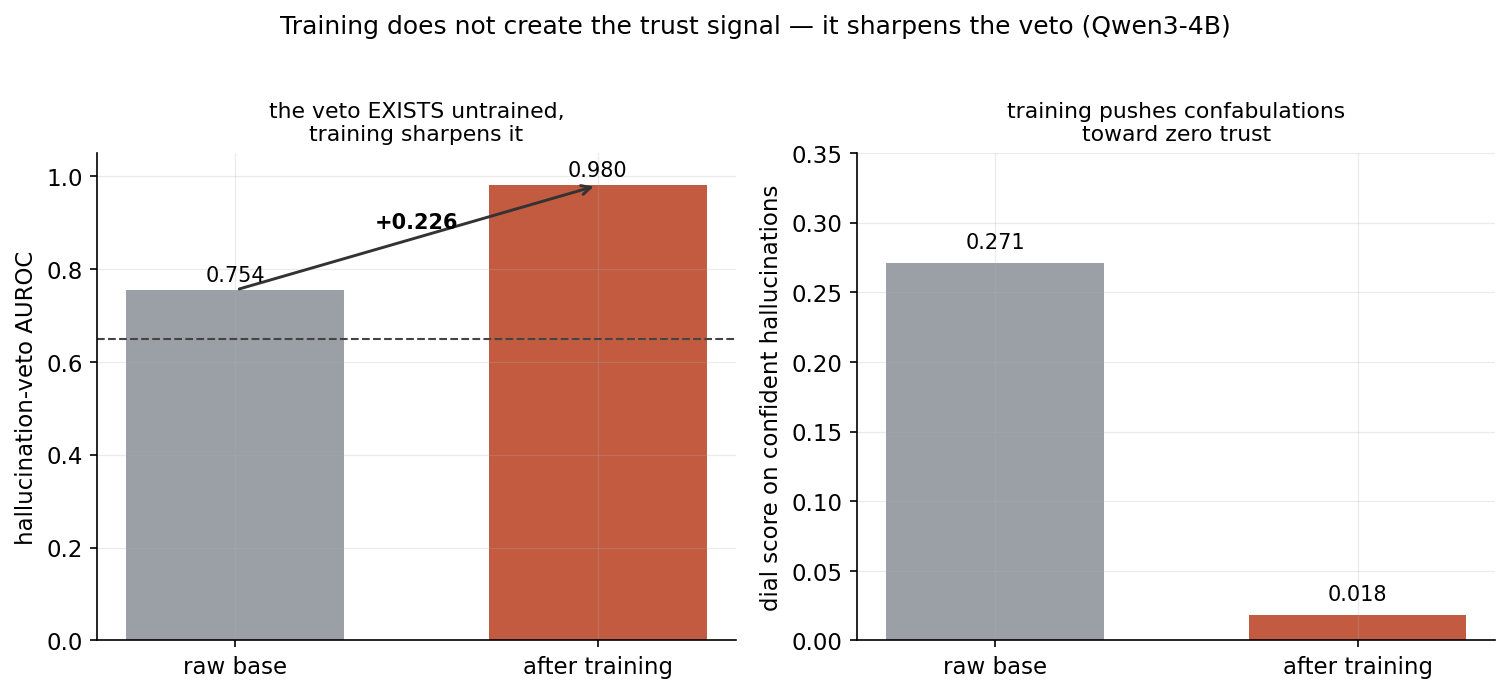
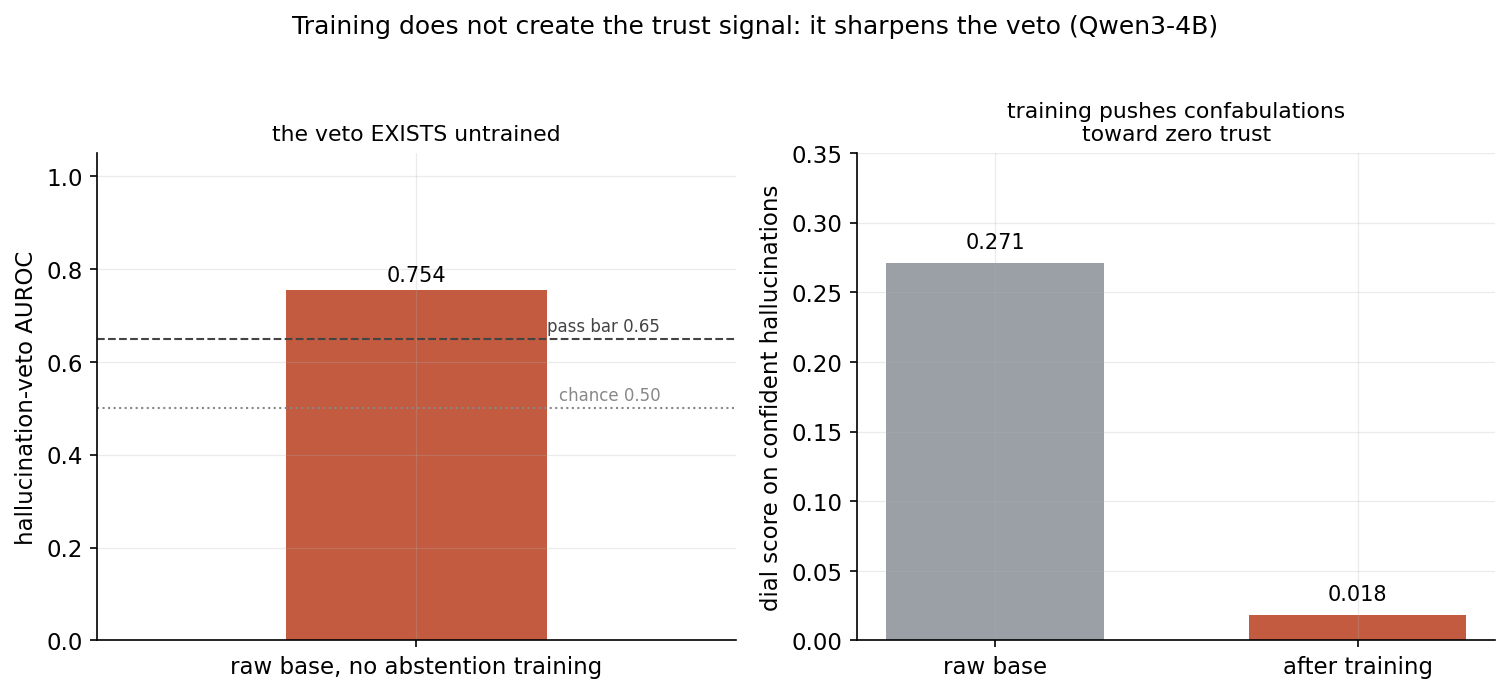
paper4 synthesis pass: remove the superseded 0.980 veto number
Per the PI directive and the new VOICE.md synthesis-not-journey rule, the
confounded 0.980 veto figure (and the 0.754-to-0.980 sharpening framing
built on it) no longer appears anywhere in the paper. The veto's on-page
characterization is the honest one, stated as the finding: a content-trust
core of 0.737 (CI [0.650, 0.815], margin +0.244 over answer length and
question answerability, CI excludes 0) plus carried answerability that is
operationally useful for flagging confabulations on unanswerable
questions. The raw-base 0.754 stays where the training-free claim needs
it; the sharpening claim now rides on the confabulation dial-mean shift
0.271 to 0.018. The U-cell registered prediction reduces to a compact
fact: the risk did not materialize, and the controlled content core sits
inside the registered 0.65-0.85 band. Figure 5 rebuilt (deterministic
generator, committed source artifacts): panel A now shows the raw-base
veto against the pass bar, panel B the dial-mean shift; suptitle em dash
replaced with a colon. Swept: abstract (three spots), sections 3, 4.3,
4.4, 4.6, 4.11, 5, 6, 8, and the figure index.

Claude-Session: https://claude.ai/code/session_01K2Xg1nGJ556Nbcpd2xEYTD

Changed region(s): [[0.0623, 0.2121, 0.4669, 0.9697], [0.1868, 0.0, 0.8093, 0.0606], [0.1868, 0.1515, 0.3735, 0.2121]]

diff --git a/papers/paper-4-two-signal-readout/scripts/build_figures.py b/papers/paper-4-two-signal-readout/scripts/build_figures.py
@@ -253,19 +253,18 @@ def fig5_training_sharpens():
     import numpy as np
     fig, (axA, axB) = plt.subplots(1, 2, figsize=(10.2, 4.5))
 
-    # A: veto AUROC base -> trained
+    # A: veto AUROC on the untrained raw base vs the pass bar and chance
     base_v = W["W_G1_dial_on_hallucination_PRIMARY"]["auroc_scorrect_vs_hallucination"]
-    train_v = U["U_G3_dial_on_hallucination_PRIMARY"]["auroc_tcorrect_vs_hallucination"]
-    axA.bar([0, 1], [base_v, train_v], color=[C_MUTE, C_VETO], width=0.6)
-    axA.annotate("", xy=(1, train_v), xytext=(0, base_v),
-                 arrowprops=dict(arrowstyle="->", color="#333", lw=1.4))
-    axA.text(0.5, (base_v + train_v) / 2 + 0.02, f"+{train_v - base_v:.3f}", ha="center", fontsize=10, fontweight="bold")
+    axA.bar([0], [base_v], color=[C_VETO], width=0.45)
     axA.axhline(THRESH, ls="--", lw=1.0, color="#444")
-    for xi, v in zip([0, 1], [base_v, train_v]):
-        axA.text(xi, v + 0.01, f"{v:.3f}", ha="center", va="bottom", fontsize=10)
-    axA.set_xticks([0, 1]); axA.set_xticklabels(["raw base", "after training"])
+    axA.axhline(CHANCE, ls=":", lw=1.0, color="#888")
+    axA.text(0.42, THRESH + 0.008, "pass bar 0.65", ha="right", va="bottom", fontsize=8, color="#444")
+    axA.text(0.42, CHANCE + 0.008, "chance 0.50", ha="right", va="bottom", fontsize=8, color="#888")
+    axA.text(0, base_v + 0.01, f"{base_v:.3f}", ha="center", va="bottom", fontsize=10)
+    axA.set_xticks([0]); axA.set_xticklabels(["raw base, no abstention training"])
+    axA.set_xlim(-0.55, 0.55)
     axA.set_ylabel("hallucination-veto AUROC"); axA.set_ylim(0, 1.05)
-    axA.set_title("the veto EXISTS untrained,\ntraining sharpens it", fontsize=10.5)
+    axA.set_title("the veto EXISTS untrained", fontsize=10.5)
 
     # B: hallucination dial-mean base -> trained (lower = more distrusted)
     base_h = W["descriptive"]["dial_mean_hallucination"]
@@ -277,7 +276,7 @@ def fig5_training_sharpens():
     axB.set_ylabel("dial score on confident hallucinations"); axB.set_ylim(0, 0.35)
     axB.set_title("training pushes confabulations\ntoward zero trust", fontsize=10.5)
 
-    fig.suptitle("Training does not create the trust signal — it sharpens the veto (Qwen3-4B)",
+    fig.suptitle("Training does not create the trust signal: it sharpens the veto (Qwen3-4B)",
                  fontsize=12, y=1.02)
     fig.tight_layout()
     fig.savefig(OUT / "fig-p3-05-training-sharpens.png", bbox_inches="tight")

diff --git a/papers/paper-4-two-signal-readout/manuscript.md b/papers/paper-4-two-signal-readout/manuscript.md
@@ -29,14 +29,15 @@ unanswerable questions at AUROC ≈ 0.997. A **correctness dial**, read at the f
 token *after* generation, ranks whether the specific answer just produced is correct
 (AUROC 0.834), and reads best *after* the answer rather than before it (+0.065, CI
 excludes zero). The dial also **vetoes confident confabulation**: hallucinated answers to
-unanswerable questions receive the lowest trust of any group (AUROC 0.980 after our
-training; 0.754 on the raw base). Fusing the two axes into one scalar costs correctness
-ranking (Δ −0.014, CI excludes 0), so we deploy them as two sequential stages.
+unanswerable questions receive the lowest trust of any group. Fusing the two axes into one
+scalar costs correctness ranking (Δ −0.014, CI excludes 0), so we deploy them as two
+sequential stages.
 
 Four findings make this a mechanism rather than a curiosity. **(1) It is training-free:**
 the whole pipeline reads off the raw instruction-tuned base with no adapter and no
-abstention training of ours; our training only *sharpens* the veto (0.754 → 0.980), it
-does not create the signal. **(2) It is size-robust:** the readout passes on every Qwen3
+abstention training of ours (veto 0.754 untrained); our training only *sharpens* the veto
+(the mean trust the dial assigns to confident confabulations falls from 0.271 to 0.018),
+it does not create the signal. **(2) It is size-robust:** the readout passes on every Qwen3
 scale from 1.7B to 14B. **(3) It replicates across model families.** On four independent
 families (Qwen, Llama, Mistral, Gemma) the gate and dial pass on all four: the gate
 saturated at 0.997 to 0.998, the dial between 0.82 and 0.86. The veto is the readout that
@@ -292,7 +293,9 @@ the run. At signing, every instrument file is pinned by content hash (SHA-256). 
 signing, gates and thresholds cannot move, and post-outcome changes to the registered
 surface are prohibited outright. Every evidence cell in this paper ran under that regime,
 and the retained predictions were wrong in instructive ways: the orchestrator predicted
-the veto in a 0.65 to 0.85 band and it landed at 0.980 (§4.3); both the PI and the
+the veto in a 0.65 to 0.85 band and the uncontrolled contrast landed above it, for a
+reason the construct decomposition later made specific (the contrast carries the
+question's answerability as well as the answer's content, §4.3 to §4.4); both the PI and the
 orchestrator called the residual-coverage gates correctly while neither foresaw the
 length confound those gates failed to guard, and neither foresaw the answerability carry
 in the follow-up either (§4.4); the seed-robustness registration pre-named Llama and
@@ -402,19 +405,21 @@ carries the program's one registered gate miss, reported in §3.
 ### 4.3 The dial vetoes confident confabulation
 
 The same correctness dial, applied to the hallucination group (confident answers to
-unanswerable questions), assigns them the **lowest trust of any group**: veto AUROC
-**0.980** on the deployed checkpoint (correct vs hallucination), with a within-SelfAware
-control (known-answered vs unknown-answered, same dataset) of **0.93** that rules out a
+unanswerable questions), assigns them the **lowest trust of any group**, on the deployed
+checkpoint and on the raw base alike, with a within-SelfAware control (known-answered vs
+unknown-answered, same dataset) of **0.93** on the deployed checkpoint that rules out a
 mere dataset-shift artifact. Confident confabulation does *not* read like a correct answer
 to the dial. This is the property that makes the dial a hallucination *veto* and not merely
 a correctness *ranker*: the failure mode we most want to catch (fluent, confident, wrong)
-is exactly the one the dial pushes to the bottom. The registered prediction is worth
-showing: the orchestrator put this veto in a 0.65 to 0.85 band, with the named risk that
-confident confabulation would carry the same internal signature as confident
-correctness and the falsifier would fire. The result overshot the band at 0.980, and
-the named risk did not materialize on this checkpoint. §4.4 explains part of the
-overshoot: the contrast carries the question's answerability as well as the answer's
-content.
+is exactly the one the dial pushes to the bottom. What the veto reads when it does this is
+established by the pre-registered decomposition in §4.4: a content-trust core of AUROC
+**0.737** (CI [0.650, 0.815]) once answer length and question answerability are both
+controlled, plus the question's carried answerability, which the post-answer state
+retains and which by itself separates unanswerable-question confabulations from good
+answers nearly perfectly. The registered fact: the orchestrator put this veto in a 0.65
+to 0.85 band, with the named risk that confident confabulation would carry the same
+internal signature as confident correctness and the falsifier would fire. The risk did
+not materialize, and the controlled content core sits inside the registered band.
 
 Figure 2 shows the mechanism directly: the dial-mean of the hallucination group sits far
 below the correct group, and the size of that separation is what the veto AUROC measures.
@@ -462,7 +467,7 @@ The registered verdict is explicit: the inflated headline must not be cited as t
 content-trust characteristic. The honest content number is about 0.74.
 
 What this means for the numbers above. Every headline veto contrast in this paper
-(0.980 on the deployed checkpoint, 0.754 on the raw base, the cross-family and
+(the deployed checkpoint, the raw base at 0.754, the cross-family and
 seed-robustness columns below) compares correct answers against confabulations on
 unanswerable questions, and the within-SelfAware control shares that structure, so
 carried answerability is uncontrolled in all of them. The decomposition does not
@@ -508,10 +513,10 @@ as **two sequential stages** rather than one score (Figure 6):
 Every result above reproduces on the **raw** Qwen3-4B instruction-tuned base, with no
 adapter and no abstention training of ours: gate **0.997**, dial **0.834**, veto **0.754**.
 Both the gate and the dial pass unchanged; the veto is present and above chance on the raw
-base. What our training buys is *sharpening the veto*, not creating the mechanism: the veto
-climbs from **0.754 → 0.980** (+0.226 AUROC), and the mean trust the dial assigns to
-confident confabulations drops from **0.271** on the base to **0.018** after training:
-the trained model reads its own hallucinations as near-zero trust. Training adds essentially
+base. What our training buys is *sharpening the veto*, not creating the mechanism: the
+mean trust the dial assigns to confident confabulations drops from **0.271** on the base
+to **0.018** after training: the trained model reads its own hallucinations as near-zero
+trust. Training adds essentially
 nothing to the gate (already saturated) and installs autonomous behavioral abstention, but
 the *readable trust signal itself* is a property of the frozen representation (Figure 5).
 
@@ -740,7 +745,7 @@ base→instruct pair read under a single pipeline (Olmo-3, same seed, scorer, an
 class) moves the veto **0.803 → 0.731** and the within-SelfAware control 0.791 → 0.674;
 the render-confounded cross-run pairs sit at or below their bases too. This resolves the
 tension with §4.6's "training sharpens" result: what sharpened the Qwen3-4B veto
-(0.754 → 0.980) was *targeted abstention training*, not post-training per se. Generic
+(§4.6) was *targeted abstention training*, not post-training per se. Generic
 vendor post-training adds nothing to any of the three axes and moved the fragile one the
 wrong way, consistent with §4.7's non-monotonic scale result.
 
@@ -791,9 +796,9 @@ mechanism with no fine-tuning:
    about 0.74, and the rest of the headline separation is carried answerability. In a
    pipeline that is acceptable: the veto's job is to catch what the gate missed, and
    catching a confabulation by re-reading the question's answerability after generation
-   still catches it. But do not expect ~0.98 discrimination on confabulations whose
-   questions read cleanly answerable, and do not read the dial score on a flagged answer
-   as a calibrated content probability (§4.2).
+   still catches it. But expect the ~0.74 content core, not the headline blend, on
+   confabulations whose questions read cleanly answerable, and do not read the dial score
+   on a flagged answer as a calibrated content probability (§4.2).
 
 Two engineering notes fall out of the results. Keep the axes *separate*: fusing them costs
 correctness ranking (§4.5). And *refit the dial per checkpoint*: the correctness direction
@@ -830,8 +835,8 @@ useful part of epistemic humility for a small model (a thresholdable "should I a
 how much should you trust this?") is available from a frozen model with a linear probe.
 
 **What training is for.** Our training is not wasted, but its role is narrow and specific: it
-*sharpens the veto* (0.754 → 0.980, a contrast that includes carried answerability; the
-controlled content core is smaller, §4.4) and installs autonomous behavioral abstention. It does
+*sharpens the veto* (confabulation dial-mean 0.271 → 0.018, §4.6) and installs
+autonomous behavioral abstention. It does
 not create the gate, the dial, or the veto, and §4.11 sharpens the negative half further:
 the signal predates not just our training but *any* post-training (gate 0.997+ on four
 pre-instruction bases), and generic vendor post-training does not sharpen the readout either
@@ -939,7 +944,7 @@ the answer than before) compose into a two-stage pipeline that needs no fine-tun
 size-robust from 1.7B to 14B, replicates across four model families, and, by the
 pre-registered pretrain-only contrast, is present *before any post-training at all*, readable
 (descriptively) as far back as GPT-2-XL. The dial's **veto** on confident confabulation is
-real and, once sharpened by targeted abstention training, strong (0.980), but it is the
+real and sharpened by targeted abstention training, but it is the
 fragile, model-dependent piece: seed- and render-sensitive, non-monotonic in scale, the
 one axis a vendor's own post-training moved the wrong way, and a blend rather than a pure
 content read: controlled for answer length and question answerability, its content core
@@ -1051,8 +1056,9 @@ surfaces, CIs, and dial descriptives.
   8B) and across families (right, 3/4 pass). (`fig-p3-03-fragile-axis.png`)
 - **Figure 4.** Correctness reads best after the answer: pre- vs post-generation dial AUROC by
   layer, base and deployed. (`fig-p3-04-post-beats-pre.png`)
-- **Figure 5.** Training sharpens the veto: veto AUROC 0.754 → 0.980 and hallucination
-  dial-mean 0.271 → 0.018, base vs trained. (`fig-p3-05-training-sharpens.png`)
+- **Figure 5.** The veto exists untrained (raw-base AUROC 0.754, above the 0.65 pass bar)
+  and training sharpens it: hallucination dial-mean 0.271 → 0.018, base vs trained.
+  (`fig-p3-05-training-sharpens.png`)
 - **Figure 6.** The deployable two-stage pipeline: gate (abstain) → generate → dial+veto
   (surface trust). (`fig-p3-06-pipeline.png`)
 - **Figure 7.** Cross-family depth profile: gate vs dial per-layer AUROC against fractional
